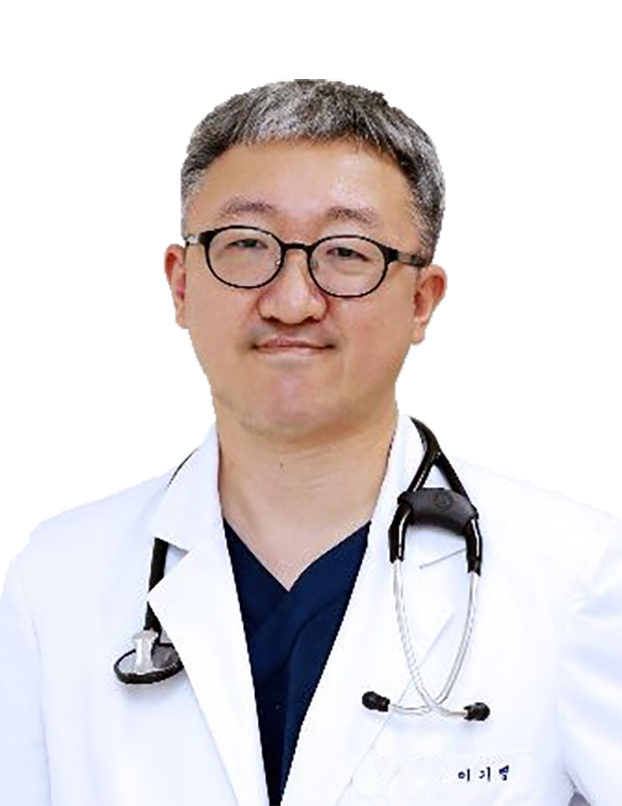
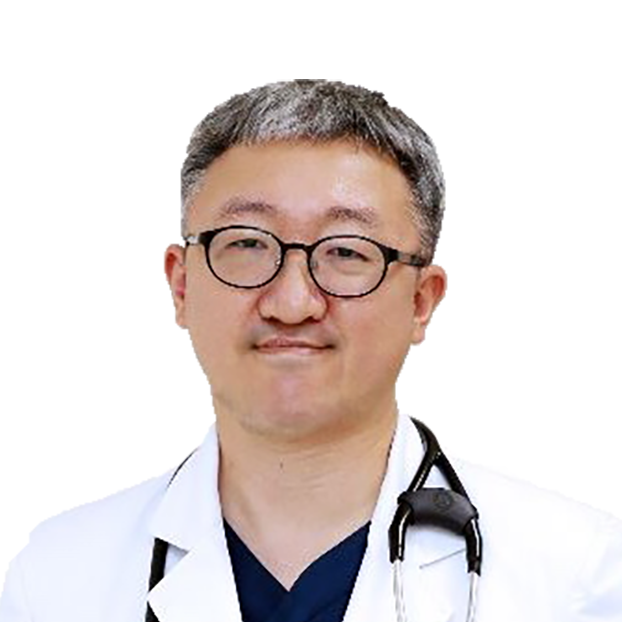
Square-crop collaborator headshots and fix Pusan → Busan

diff --git a/_pages/about_dayoon.md b/_pages/about_dayoon.md
@@ -1,3 +1,3 @@
 Co-founder and Quality Management Officer at [BreathYou](https://breathyou.care), leading quality management for medical device development.
 
-Nurse by training — graduated from Catholic University of Pusan with a degree in Nursing, and previously worked at Severance Hospital before co-founding BreathYou.
+Nurse by training — graduated from Catholic University of Busan with a degree in Nursing, and previously worked at Severance Hospital before co-founding BreathYou.
